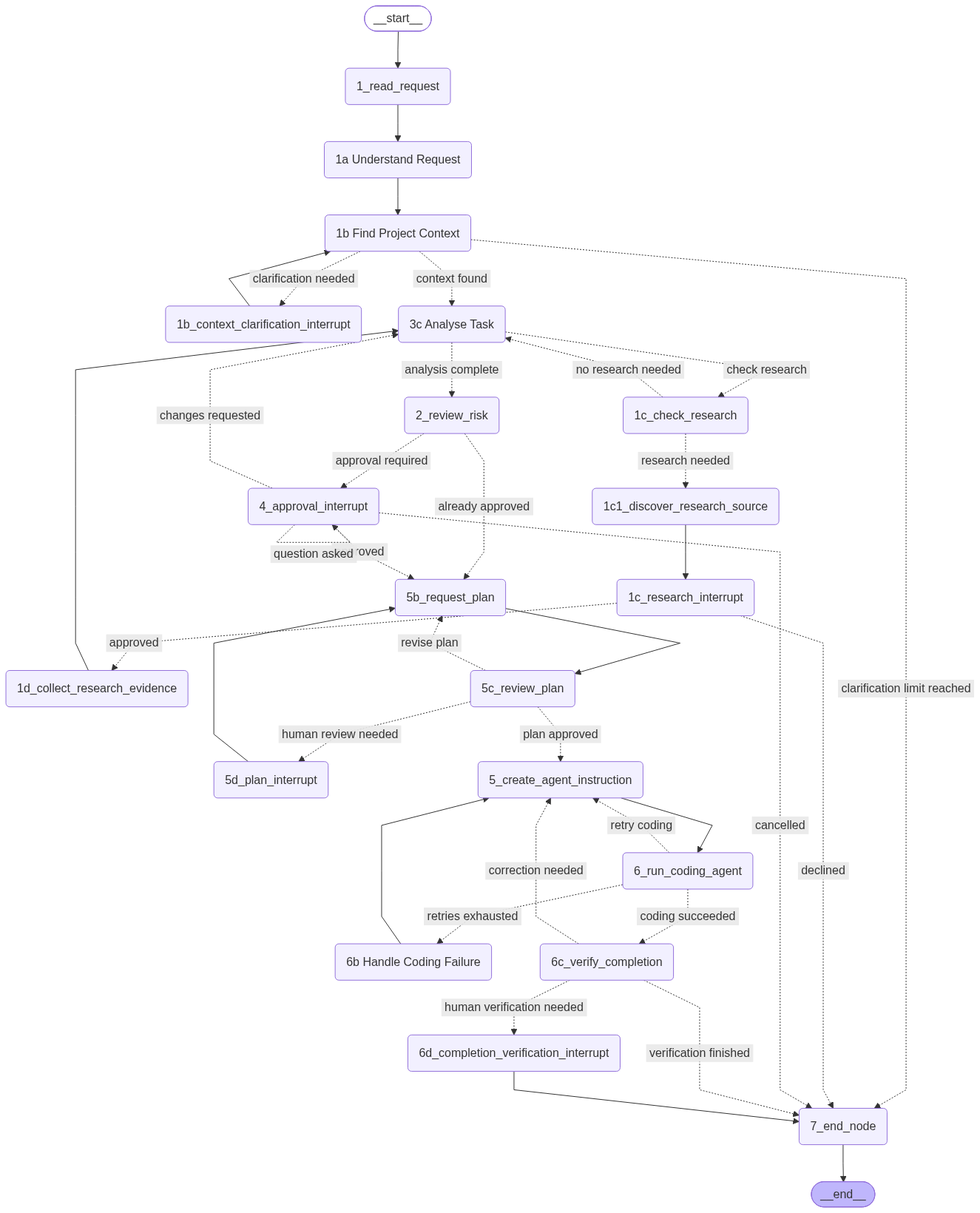
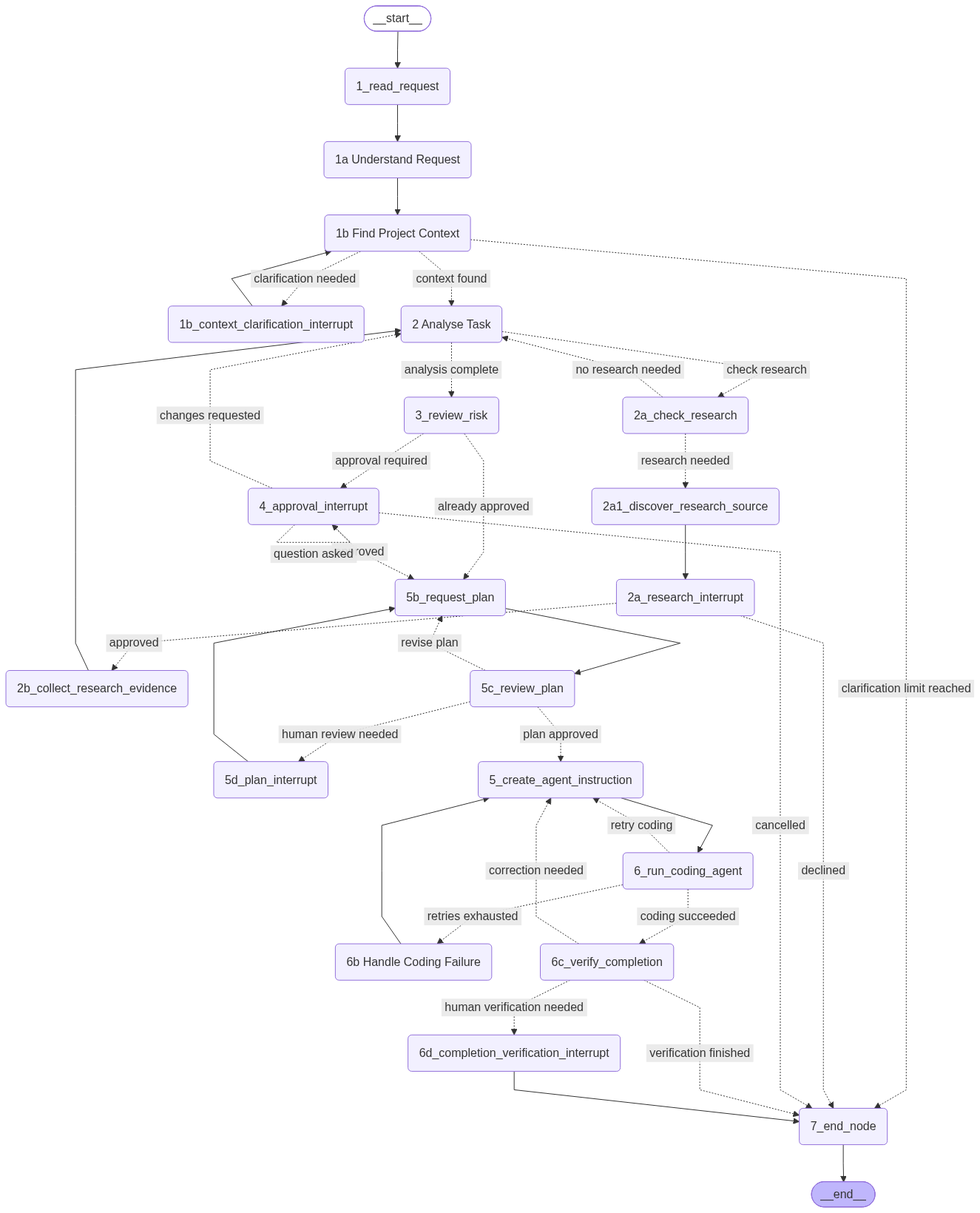
refactor: renumber graph node identifiers to match reordered execution path
The prior commit (35b2e81) already reordered the graph so Tech Lead Analysis
runs before the research gap check and risk review, but left the node
identifiers carrying their old position numbers (3c_tech_lead_analyse,
1c_check_research, 2_review_risk, etc.), so logs and the Mermaid diagram no
longer matched the real execution order.

Renamed to reflect actual order:
- 3c Analyse Task            -> 2 Analyse Task
- 1c_check_research          -> 2a_check_research
- 1c1_discover_research_source -> 2a1_discover_research_source
- 1c_research_interrupt      -> 2a_research_interrupt
- 1d_collect_research_evidence -> 2b_collect_research_evidence
- 2_review_risk              -> 3_review_risk

Confirmed safe before renaming: checked data/checkpoints.sqlite3 for any
paused/in-flight run referencing these exact node-name strings (LangGraph
resume depends on them). Found and deleted 3 stale subprocess checkpoints
from 2026-07-28, operator-confirmed abandoned, one of which was paused
exactly at 1c_check_research. The remaining paused telegram thread sits at
5d_plan_interrupt, an identifier untouched by this change.

Also brought docs/GRAPH_WORKFLOW.md fully in sync with the current node
names (including 1a/1b renames from the prior commit it had missed), fixed
the same stale reference in .skills/research-cache/SKILL.md, and
regenerated the Mermaid diagram.

diff --git a/src/ai_tech_lead/coding_workflow_graph.py b/src/ai_tech_lead/coding_workflow_graph.py
@@ -50,12 +50,12 @@ class NodeName(StrEnum):
     UNDERSTAND_AND_BOUND_REQUEST = "1a Understand Request"
     RESOLVE_CONTEXT = "1b Find Project Context"
     CONTEXT_CLARIFICATION_INTERRUPT = "1b_context_clarification_interrupt"
-    CHECK_RESEARCH = "1c_check_research"
-    DISCOVER_RESEARCH_SOURCE = "1c1_discover_research_source"
-    RESEARCH_INTERRUPT = "1c_research_interrupt"
-    COLLECT_RESEARCH_EVIDENCE = "1d_collect_research_evidence"
-    REVIEW_RISK = "2_review_risk"
-    TECH_LEAD_ANALYSE = "3c Analyse Task"
+    CHECK_RESEARCH = "2a_check_research"
+    DISCOVER_RESEARCH_SOURCE = "2a1_discover_research_source"
+    RESEARCH_INTERRUPT = "2a_research_interrupt"
+    COLLECT_RESEARCH_EVIDENCE = "2b_collect_research_evidence"
+    REVIEW_RISK = "3_review_risk"
+    TECH_LEAD_ANALYSE = "2 Analyse Task"
     APPROVAL_INTERRUPT = "4_approval_interrupt"
     REQUEST_PLAN = "5b_request_plan"
     REVIEW_PLAN = "5c_review_plan"
@@ -330,7 +330,7 @@ def context_clarification_interrupt_node(state: GraphState) -> dict[str, Any]:
 def check_research_node(state: GraphState) -> dict[str, Any]:
     """Identify a knowledge gap, if any, and check research evidence requirements."""
 
-    _log_node_start("1b", "CHECK_RESEARCH", "Check research evidence requirements")
+    _log_node_start("2a", "CHECK_RESEARCH", "Check research evidence requirements")
     settings = load_settings()
     context = _target_project_context_from_state(state)
     code_context_root = (
@@ -408,7 +408,7 @@ def discover_research_source_node(state: GraphState) -> dict[str, Any]:
     is off, errors, or finds no safe candidate.
     """
 
-    _log_node_start("1c1", "DISCOVER_RESEARCH_SOURCE", "Discover a candidate official source")
+    _log_node_start("2a1", "DISCOVER_RESEARCH_SOURCE", "Discover a candidate official source")
     settings = load_settings()
     gap_question = str(state.get("research_gap_question", "")).strip()
 
@@ -455,7 +455,7 @@ def discover_research_source_node(state: GraphState) -> dict[str, Any]:
 def research_interrupt_node(state: GraphState) -> dict[str, Any]:
     """Pause and ask for human approval before running online research."""
 
-    _log_node_start("1c", "RESEARCH_INTERRUPT", "Pause for human online research approval")
+    _log_node_start("2a", "RESEARCH_INTERRUPT", "Pause for human online research approval")
     question = str(state.get("orchestrator_input_question", "")).strip()
     logger.info("Research interrupt: awaiting human approval. Question: %s", question)
     result = interrupt({"kind": "research_approval", "question": question})
@@ -472,7 +472,7 @@ def research_interrupt_node(state: GraphState) -> dict[str, Any]:
 def route_after_check_research(state: GraphState) -> str:
     """Route after research check: interrupt if complex task lacks local sources, else continue."""
 
-    _log_decision_start("1b", "ROUTE_AFTER_CHECK_RESEARCH", "Route after research evidence check")
+    _log_decision_start("2a", "ROUTE_AFTER_CHECK_RESEARCH", "Route after research evidence check")
 
     if state.get("research_evidence_required") and not state.get("online_research_approved", True):
         logger.info("Decision: research interrupt needed -> DISCOVER_RESEARCH_SOURCE")
@@ -502,7 +502,7 @@ def route_after_research_interrupt(state: GraphState) -> str:
 def collect_research_evidence_node(state: GraphState) -> dict[str, Any]:
     """Fetch bounded official docs after the human approves online research."""
 
-    _log_node_start("1d", "COLLECT_RESEARCH_EVIDENCE", "Fetch approved online documentation")
+    _log_node_start("2b", "COLLECT_RESEARCH_EVIDENCE", "Fetch approved online documentation")
     settings = load_settings()
 
     local_titles = list(state.get("research_source_titles", []))
@@ -588,7 +588,7 @@ def review_risk_node(state: GraphState) -> dict[str, Any]:
     no longer decides whether approval is required.
     """
 
-    _log_node_start("2/7", "REVIEW_RISK", "Review task risk")
+    _log_node_start("3", "REVIEW_RISK", "Review task risk")
     settings = load_settings()
     logger.info("AI channel: OpenAI Responses API")
     logger.info("AI model: %s", settings.orchestrator_ai_model)
@@ -650,7 +650,7 @@ def tech_lead_analyse_node(state: GraphState) -> dict[str, Any]:
     """Tech lead analysis: formulate the task and produce high-level technical direction."""
 
     _log_node_start(
-        "3c", "TECH_LEAD_ANALYSE", "Tech lead analysis — formulate task and set direction"
+        "2", "TECH_LEAD_ANALYSE", "Tech lead analysis — formulate task and set direction"
     )
     settings = load_settings()
 
@@ -692,7 +692,7 @@ def route_after_tech_lead_analyse(state: GraphState) -> str:
     research gap check a second time.
     """
 
-    _log_decision_start("3c", "ROUTE_AFTER_TECH_LEAD_ANALYSE", "Route after tech lead analysis")
+    _log_decision_start("2", "ROUTE_AFTER_TECH_LEAD_ANALYSE", "Route after tech lead analysis")
 
     if not state.get("research_checked"):
         logger.info("Decision: research not yet checked -> CHECK_RESEARCH")
@@ -710,7 +710,7 @@ def route_after_review_risk(state: GraphState) -> str:
     exact implementation scope is only known once analysis has run.
     """
 
-    _log_decision_start("2", "ROUTE_AFTER_REVIEW_RISK", "Route after risk review")
+    _log_decision_start("3", "ROUTE_AFTER_REVIEW_RISK", "Route after risk review")
 
     if state.get("approved"):
         logger.info("Decision: already approved -> REQUEST_PLAN")

diff --git a/docs/GRAPH_WORKFLOW.md b/docs/GRAPH_WORKFLOW.md
@@ -32,27 +32,27 @@ coding_workflow_graph -> ai_tech_lead.coding_workflow_graph:graph
 ```text
 START
 -> 1_read_request
--> 1a_understand_and_bound_request
--> 1b_resolve_context
+-> 1a Understand Request
+-> 1b Find Project Context
 -> [1b_context_clarification_interrupt, if a reference cannot be resolved safely]
-   -> back to 1b_resolve_context with the human's answer folded in (bounded to 1 round;
+   -> back to 1b Find Project Context with the human's answer folded in (bounded to 1 round;
       still unresolved after that -> 7_end_node, a clear failure, not another interrupt)
--> 3c_tech_lead_analyse          (formulate task + high-level tech direction; runs before the
+-> 2 Analyse Task              (formulate task + high-level tech direction; runs before the
    research gap check so the gap is judged against the formulated task, not the raw request)
--> 1c_check_research             (checks research_checked=False -> runs once per attempt)
--> [1c1_discover_research_source, if a knowledge gap needs online sources]
--> 1c_research_interrupt
--> 1d_collect_research_evidence  (if online research approved)
-   -> back to 3c_tech_lead_analyse to finalize the task using the collected evidence
-      (research_checked is now True, so this second pass goes straight to 2_review_risk
-      instead of re-running 1c_check_research)
--> 2_review_risk                 (sets risk_level: LOW/MEDIUM/HIGH/UNKNOWN; sleep mode applied
+-> 2a_check_research            (checks research_checked=False -> runs once per attempt)
+-> [2a1_discover_research_source, if a knowledge gap needs online sources]
+-> 2a_research_interrupt
+-> 2b_collect_research_evidence  (if online research approved)
+   -> back to 2 Analyse Task to finalize the task using the collected evidence
+      (research_checked is now True, so this second pass goes straight to 3_review_risk
+      instead of re-running 2a_check_research)
+-> 3_review_risk                 (sets risk_level: LOW/MEDIUM/HIGH/UNKNOWN; sleep mode applied
    here; reviews the formulated task + technical direction, not the raw request, since the
    actual implementation scope is only known once analysis has run)
 -> [4_approval_interrupt, if approval is needed]
    -> approve: continue below
-   -> request changes: back to 3c_tech_lead_analyse (research_checked is already True at this
-      point, so this goes straight through to 2_review_risk again rather than re-checking
+   -> request changes: back to 2 Analyse Task (research_checked is already True at this
+      point, so this goes straight through to 3_review_risk again rather than re-checking
       research; up to 5 revision cycles, then ends)
    -> ask a question: back to 4_approval_interrupt (answer shown, same choices again)
    -> cancel: 7_end_node
@@ -73,17 +73,17 @@ START
 
 Before research, the graph now separates the original request from the bounded task context:
 
-- `1a_understand_and_bound_request` classifies the request intent, detects possible external references, and records whether execution was requested. Phrases such as `report only` or `do not code` keep execution intent false.
-- `1b_resolve_context` resolves references only from explicit caller-supplied project, resource, or fetched backlog context. It never infers that a prefix such as `AF` means a particular project. The subprocess boundary has already validated and normalized that caller data into AI Tech Lead's immutable internal `TargetProjectContext`, and downstream project-aware steps reuse that same context instead of rebuilding it ad hoc.
-- If a reference cannot be resolved, the workflow pauses at `1b_context_clarification_interrupt` and asks one precise clarification question, instead of ending the run. The human's answer resolves only the single reference that was asked about (never parsed or guessed at — recorded verbatim as trusted human context, the same trust level already given to caller-supplied `TargetProjectContext`), and the workflow loops back to `1b_resolve_context` to retry. This is bounded to one clarification round (`CONTEXT_CLARIFICATION_MAX_RETRIES`); if the reference is still unresolved after that, the workflow ends clearly at `7_end_node` instead of asking again — see "Human interrupt nodes" below.
+- `1a Understand Request` classifies the request intent, detects possible external references, and records whether execution was requested. Phrases such as `report only` or `do not code` keep execution intent false.
+- `1b Find Project Context` resolves references only from explicit caller-supplied project, resource, or fetched backlog context. It never infers that a prefix such as `AF` means a particular project. The subprocess boundary has already validated and normalized that caller data into AI Tech Lead's immutable internal `TargetProjectContext`, and downstream project-aware steps reuse that same context instead of rebuilding it ad hoc.
+- If a reference cannot be resolved, the workflow pauses at `1b_context_clarification_interrupt` and asks one precise clarification question, instead of ending the run. The human's answer resolves only the single reference that was asked about (never parsed or guessed at — recorded verbatim as trusted human context, the same trust level already given to caller-supplied `TargetProjectContext`), and the workflow loops back to `1b Find Project Context` to retry. This is bounded to one clarification round (`CONTEXT_CLARIFICATION_MAX_RETRIES`); if the reference is still unresolved after that, the workflow ends clearly at `7_end_node` instead of asking again — see "Human interrupt nodes" below.
 - `bounded_request` contains the original request plus verified project/backlog context (and any clarification answer). Research, risk review, tech-lead analysis, completion verification, and operator Q&A use this bounded form rather than the raw ambiguous request.
 
 Backlog context is optional. Plain reviews, explanations, bug investigations, and direct coding requests continue without requiring a backlog reference.
 
 ## Tech lead analysis node
 
-`3c_tech_lead_analyse` is the orchestrator's thinking step. It is re-entered more than once per
-task: a preliminary pass runs before `1c_check_research` (to give the research gap check a
+`2 Analyse Task` is the orchestrator's thinking step. It is re-entered more than once per
+task: a preliminary pass runs before `2a_check_research` (to give the research gap check a
 formulated task instead of the raw request), a final pass runs after research completes (or
 immediately, if no gap was found), and further passes run on each approval "request changes"
 revision. It acts as a senior tech lead each time:
@@ -135,13 +135,13 @@ The subprocess contract (`agent_task_runner.py`) only reports `status: success` 
 
 These nodes call `interrupt(value)` (LangGraph dynamic breakpoint pattern) to pause and wait for human input. The graph resumes via `invoke(Command(resume=value))`.
 
-- `1b_context_clarification_interrupt` — emits `{"kind": "context_clarification", "question": "...", "reason": "...", "retry_count": N}`. Resume with a plain text answer. The answer is stored and the workflow loops back to `1b_resolve_context` to retry resolution with it folded in. Bounded to `CONTEXT_CLARIFICATION_MAX_RETRIES` (1) round — if still unresolved after that, `1b_resolve_context` routes straight to `7_end_node` instead of interrupting again, and the subprocess boundary reports a clear failure (`context_clarification_exhausted`), not another `needs_clarification` that would invite an automated resubmit.
-- `1c_research_interrupt` — emits `{"kind": "research_approval", "question": "..."}`. Resume with `{"approved": True/False}`.
-  - `approved: True` continues to `1d_collect_research_evidence`.
+- `1b_context_clarification_interrupt` — emits `{"kind": "context_clarification", "question": "...", "reason": "...", "retry_count": N}`. Resume with a plain text answer. The answer is stored and the workflow loops back to `1b Find Project Context` to retry resolution with it folded in. Bounded to `CONTEXT_CLARIFICATION_MAX_RETRIES` (1) round — if still unresolved after that, `1b Find Project Context` routes straight to `7_end_node` instead of interrupting again, and the subprocess boundary reports a clear failure (`context_clarification_exhausted`), not another `needs_clarification` that would invite an automated resubmit.
+- `2a_research_interrupt` — emits `{"kind": "research_approval", "question": "..."}`. Resume with `{"approved": True/False}`.
+  - `approved: True` continues to `2b_collect_research_evidence`.
   - `approved: False` ends the workflow.
 - `4_approval_interrupt` — emits `{"kind": "approval", "reason": "...", "formulated_task": "...", "last_question": "...", "last_answer": "..."}` (the last two only present after an `ask_question` round). Resume with `{"action": "approve"|"request_changes"|"ask_question"|"cancel", ...}`:
   - `{"action": "approve", "approved_by": "..."}` — continues to `5b_request_plan`.
-  - `{"action": "request_changes", "feedback": "..."}` — appends `feedback` to `task_feedback`, increments `approval_revision_count`, and loops back to `3c_tech_lead_analyse` to regenerate `formulated_task`/`brief`. At `approval_revision_count` = 5 the loop stops and ends the workflow instead of looping again.
+  - `{"action": "request_changes", "feedback": "..."}` — appends `feedback` to `task_feedback`, increments `approval_revision_count`, and loops back to `2 Analyse Task` to regenerate `formulated_task`/`brief`. At `approval_revision_count` = 5 the loop stops and ends the workflow instead of looping again.
   - `{"action": "ask_question", "question": "..."}` — answers the question using the request, resolved project, bounded code context, and research evidence already in state (never crashes the node if the LLM call fails — falls back to a plain "couldn't answer" message), then loops back to `4_approval_interrupt` itself with the Q&A recorded so the same four choices are shown again.
   - `{"action": "cancel"}` (or any unrecognized/malformed resume value — this gate fails closed, never to approve) — ends the workflow.
   - In sleep mode, this node is only reached for HIGH risk or `force_approval=True` tasks.
@@ -157,7 +157,7 @@ Read the interrupt value from `state_snapshot.tasks[0].interrupts[0].value`. The
 
 `sleep_mode` is a runtime setting toggled via `/sleep on` or `/sleep off` in Telegram.
 
-When sleep mode is active, the `2_review_risk` node applies these rules instead of always routing to an interrupt:
+When sleep mode is active, the `3_review_risk` node applies these rules instead of always routing to an interrupt:
 
 | risk_level | force_approval | Outcome |
 |---|---|---|
@@ -170,16 +170,16 @@ When sleep mode is active, the `2_review_risk` node applies these rules instead 
 
 ## Looping behaviour
 
-- An unresolved reference at `1b_resolve_context` pauses for exactly one human clarification round (`CONTEXT_CLARIFICATION_MAX_RETRIES` = 1). If the answer resolves the reference, the workflow continues to `3c_tech_lead_analyse`. If it's still unresolved after that one round, the workflow ends at `7_end_node` and reports a clear failure rather than looping or asking again — this keeps the bound tight even when the caller resuming the task is an automated agent (e.g. Agent Hub) rather than a person.
-- `3c_tech_lead_analyse` now runs immediately after context resolution, before `1c_check_research`. `route_after_tech_lead_analyse` checks the `research_checked` flag: on the first pass (flag not yet set) it routes to `1c_check_research`; on every later pass through this same node (after research evidence arrives, or after an approval "request changes" revision) the flag is already `True`, so it routes straight to `2_review_risk` instead. This is what lets one node serve as both the preliminary and the final analysis pass without a separate node type.
-- `1c_check_research` asks the LLM to name one specific external knowledge gap, not to rate task complexity — a large or architecturally significant task can need no research, and a small task can hinge on one unfamiliar external fact. If no gap is named, research is skipped regardless of task size. The gap check now runs against `formulated_task` (falling back to `bounded_request`/`request` if analysis has not produced one), so the gap reflects the tech lead's own understanding of the task rather than only the raw ask. The check also sees bounded code context read from `watched_directories` (`research_code_context_enabled`, on by default) so a gap already answered by existing code is not flagged. This code-context scan is scoped to `resolved_project_root` when the task targets a different project than AI Tech Lead itself — it reads the target project's code, not this repo's. The local docs/research cache lookup is unaffected by this and always stays anchored to this repo (`settings.project_root`), since that cache is AI Tech Lead's own shared knowledge base, not project-specific. `1c_check_research` always sets `research_checked=True` before routing onward, whether or not a gap was found.
-- `2_review_risk` now runs after `3c_tech_lead_analyse` rather than before it. It reviews the formulated task plus technical direction (falling back to the raw request only if analysis has not produced a `formulated_task` yet), so risk reflects the actual scope the tech lead decided on rather than the original, sometimes-vaguer request.
-- A known trade-off: on the common path (no research gap at all), `3c_tech_lead_analyse` still runs twice — once before `1c_check_research`, once immediately after it confirms no gap — since the same node is reused for both the preliminary and final pass. This keeps the node count small and the reasoning consistent, at the cost of one extra `analyse_task` call per attempt versus a design with a dedicated "gap-only" pass. Revisit only if that extra call proves to be a real cost/latency problem in practice.
+- An unresolved reference at `1b Find Project Context` pauses for exactly one human clarification round (`CONTEXT_CLARIFICATION_MAX_RETRIES` = 1). If the answer resolves the reference, the workflow continues to `2 Analyse Task`. If it's still unresolved after that one round, the workflow ends at `7_end_node` and reports a clear failure rather than looping or asking again — this keeps the bound tight even when the caller resuming the task is an automated agent (e.g. Agent Hub) rather than a person.
+- `2 Analyse Task` now runs immediately after context resolution, before `2a_check_research`. `route_after_tech_lead_analyse` checks the `research_checked` flag: on the first pass (flag not yet set) it routes to `2a_check_research`; on every later pass through this same node (after research evidence arrives, or after an approval "request changes" revision) the flag is already `True`, so it routes straight to `3_review_risk` instead. This is what lets one node serve as both the preliminary and the final analysis pass without a separate node type.
+- `2a_check_research` asks the LLM to name one specific external knowledge gap, not to rate task complexity — a large or architecturally significant task can need no research, and a small task can hinge on one unfamiliar external fact. If no gap is named, research is skipped regardless of task size. The gap check now runs against `formulated_task` (falling back to `bounded_request`/`request` if analysis has not produced one), so the gap reflects the tech lead's own understanding of the task rather than only the raw ask. The check also sees bounded code context read from `watched_directories` (`research_code_context_enabled`, on by default) so a gap already answered by existing code is not flagged. This code-context scan is scoped to `resolved_project_root` when the task targets a different project than AI Tech Lead itself — it reads the target project's code, not this repo's. The local docs/research cache lookup is unaffected by this and always stays anchored to this repo (`settings.project_root`), since that cache is AI Tech Lead's own shared knowledge base, not project-specific. `2a_check_research` always sets `research_checked=True` before routing onward, whether or not a gap was found.
+- `3_review_risk` now runs after `2 Analyse Task` rather than before it. It reviews the formulated task plus technical direction (falling back to the raw request only if analysis has not produced a `formulated_task` yet), so risk reflects the actual scope the tech lead decided on rather than the original, sometimes-vaguer request.
+- A known trade-off: on the common path (no research gap at all), `2 Analyse Task` still runs twice — once before `2a_check_research`, once immediately after it confirms no gap — since the same node is reused for both the preliminary and final pass. This keeps the node count small and the reasoning consistent, at the cost of one extra `analyse_task` call per attempt versus a design with a dedicated "gap-only" pass. Revisit only if that extra call proves to be a real cost/latency problem in practice.
 - If the knowledge-gap check is disabled, unavailable, or returns invalid output, the workflow fails closed and routes to the research approval path instead of silently treating the task as gap-free.
-- `1c1_discover_research_source` only runs when a gap needs online sources. It is off by default (`research_discovery_enabled`). When on, it calls OpenAI's hosted web-search tool to propose one official-documentation candidate for the gap, and every candidate — like every online fetch, static or discovered — must pass the outbound URL safety guard (`research_sources.validate_outbound_research_url`: https-only, no private/loopback/link-local/reserved addresses, redirects re-validated, response size capped) before it is ever shown to a human. If a safe candidate is found, `1c_research_interrupt`'s question names that specific URL; approving it approves fetching only that URL. If discovery is off, errors, or finds nothing safe, the interrupt falls back to the existing bounded-registry question. Discovered URLs are never written back into `research_allowed_domains`/`research_online_source_urls` — growing that permanent list stays a manual config change.
+- `2a1_discover_research_source` only runs when a gap needs online sources. It is off by default (`research_discovery_enabled`). When on, it calls OpenAI's hosted web-search tool to propose one official-documentation candidate for the gap, and every candidate — like every online fetch, static or discovered — must pass the outbound URL safety guard (`research_sources.validate_outbound_research_url`: https-only, no private/loopback/link-local/reserved addresses, redirects re-validated, response size capped) before it is ever shown to a human. If a safe candidate is found, `2a_research_interrupt`'s question names that specific URL; approving it approves fetching only that URL. If discovery is off, errors, or finds nothing safe, the interrupt falls back to the existing bounded-registry question. Discovered URLs are never written back into `research_allowed_domains`/`research_online_source_urls` — growing that permanent list stays a manual config change.
 - Research approval rejection ends the workflow before risk review.
 - Approved research resumes into bounded evidence collection, then continues to risk review.
-- "Request changes" at `4_approval_interrupt` loops back to `3c_tech_lead_analyse` with the feedback appended to `task_feedback`, up to 5 revision cycles (`approval_revision_count`); the 6th "request changes" ends the workflow instead of looping again, so the cycle can't run forever.
+- "Request changes" at `4_approval_interrupt` loops back to `2 Analyse Task` with the feedback appended to `task_feedback`, up to 5 revision cycles (`approval_revision_count`); the 6th "request changes" ends the workflow instead of looping again, so the cycle can't run forever.
 - "Ask a question" at `4_approval_interrupt` never leaves that node's loop — it answers, then re-shows the same four choices, and does not touch `formulated_task`, `brief`, `approval_reason`, or research evidence, so no task/project state is lost across the round trip.
 - Only "cancel" (or an unrecognised resume value, which fails closed to cancel) ends the workflow from `4_approval_interrupt`.
 - Rejected plans loop back to `5b_request_plan` with LLM correction feedback.

diff --git a/.skills/research-cache/SKILL.md b/.skills/research-cache/SKILL.md
@@ -50,4 +50,4 @@ sources:
 - If a cached finding is more than 6 months old and the topic evolves fast (LLM tooling, APIs), note it may be stale before relying on it.
 
 ## Note on the automated fetch path
-Notes written automatically by `1d_collect_research_evidence` (see `docs/GRAPH_WORKFLOW.md`) only populate `topic`/`date`/`question`/`sources` and a plain `## Summary` — they skip `Options found`/`Recommendation`/`Raw notes` because that automated path fetches raw docs without synthesizing them into those sections. Use this manual template's full structure when you do the synthesis yourself.
+Notes written automatically by `2b_collect_research_evidence` (see `docs/GRAPH_WORKFLOW.md`) only populate `topic`/`date`/`question`/`sources` and a plain `## Summary` — they skip `Options found`/`Recommendation`/`Raw notes` because that automated path fetches raw docs without synthesizing them into those sections. Use this manual template's full structure when you do the synthesis yourself.
